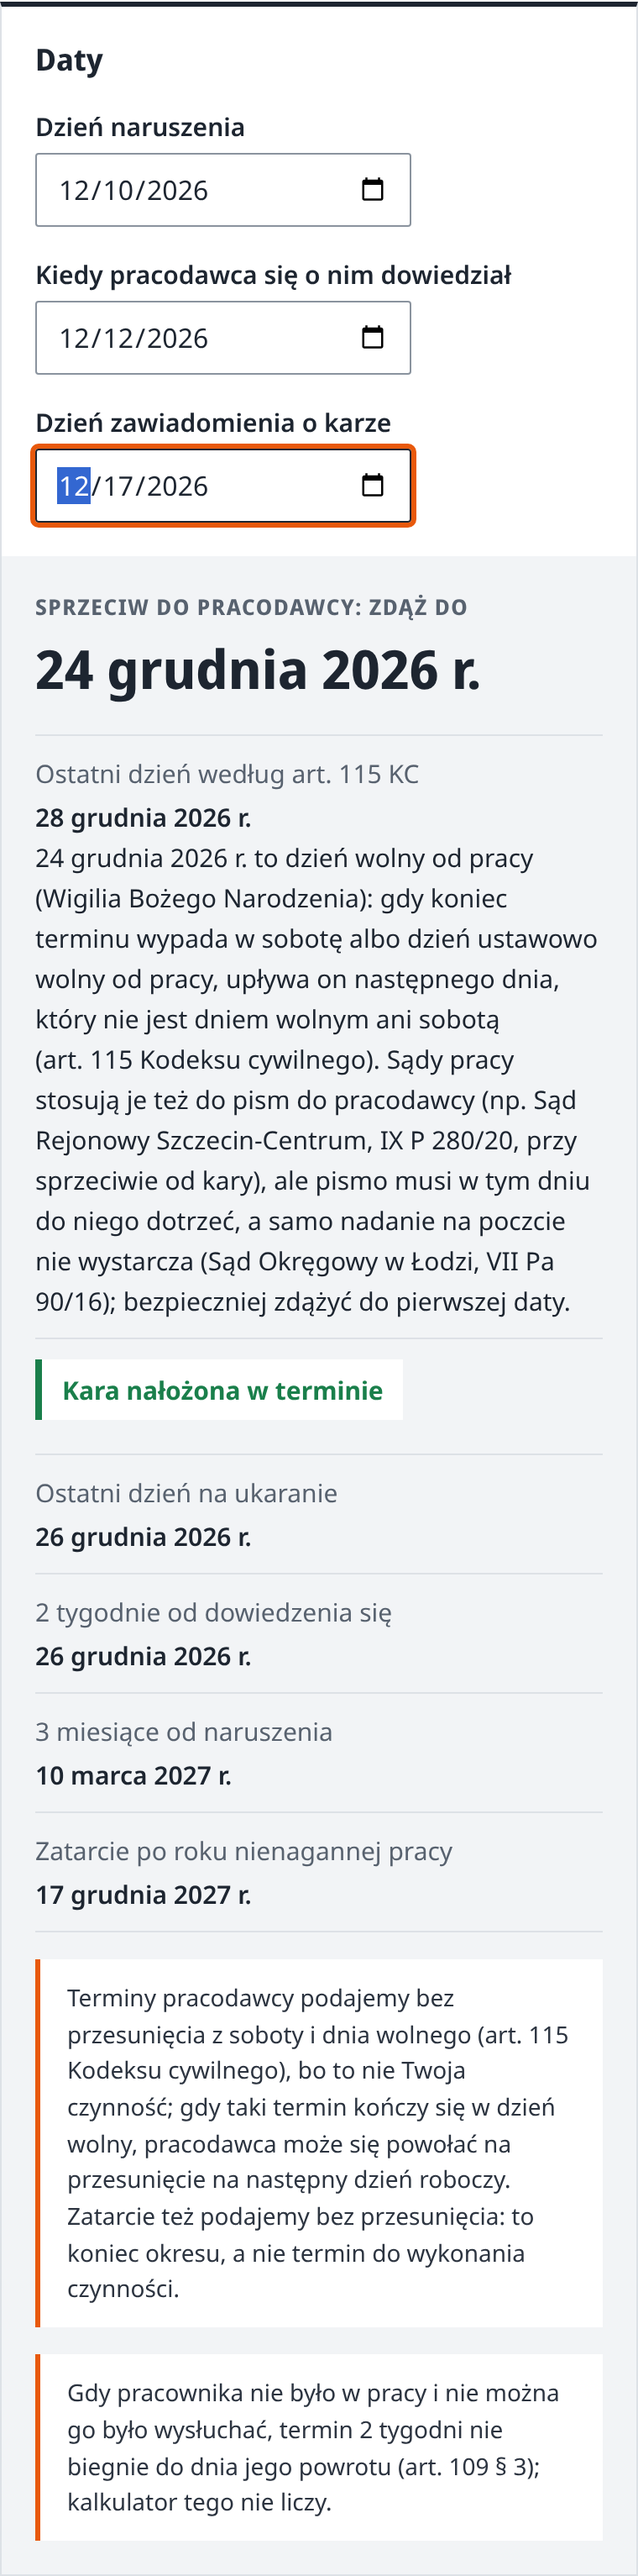
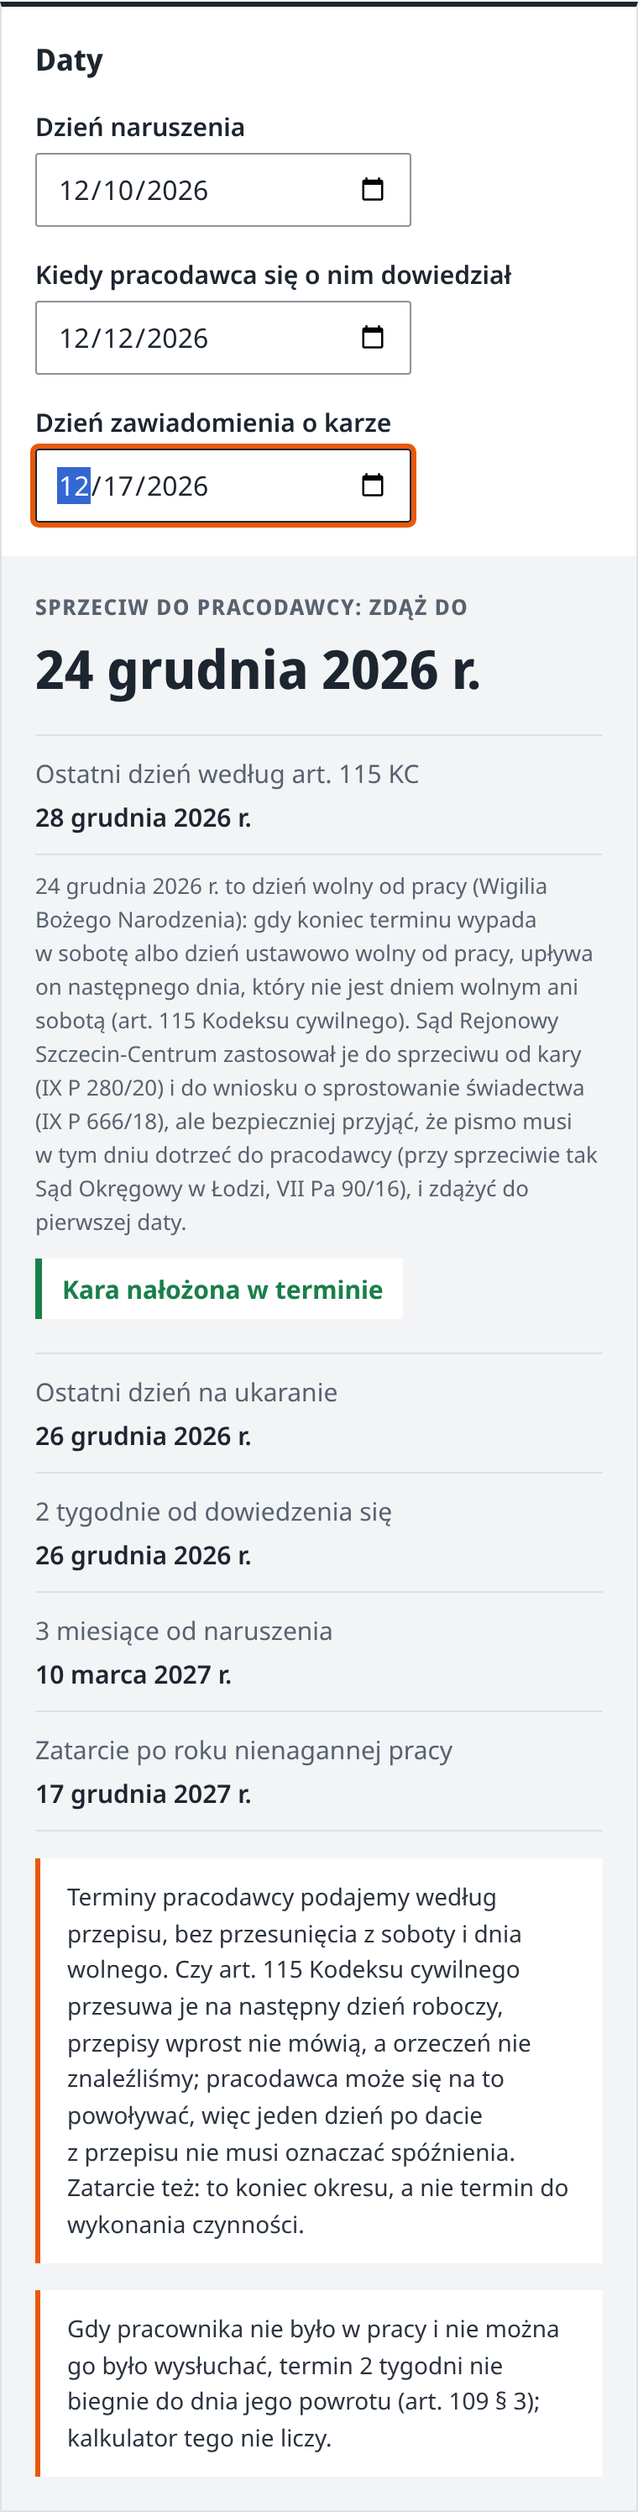
Pakiet terminy: jedna konwencja art. 115 KC w sześciu narzędziach, audyt świadectwa pracy; pełny check zielony
Claude-Session: https://claude.ai/code/session_015dQkzgtKjeL9rnLBTCRrJg

Changed region(s): [[0.0303, 0.0, 0.9382, 0.9953]]

diff --git a/raporty/terminy/RAPORT.md b/raporty/terminy/RAPORT.md
@@ -24,7 +24,7 @@ i weryfikator kodu/UX (niezależnie, pliki i teksty przepisów, bez wniosków bu
     30 września (art. 168) bez przesunięcia jako data z przepisu dla pracodawcy.
   - `informacja-o-warunkach-zatrudnienia`: same obowiązki pracodawcy, więc bez przesunięcia (usunięta data przesunięta),
     jedno zdanie dlaczego.
-- „Jak liczymy”, FAQ, testy jednostkowe (1801 w całym repozytorium) i E2E zaktualizowane; zrzuty 412/320 px:
+- „Jak liczymy”, FAQ, testy jednostkowe i E2E zaktualizowane; zrzuty 412/320 px:
   `raporty/terminy/zrzuty/` (skrypt `zrzuty.mjs`, stan z dwiema datami, 0 px przewijania w bok, nic nieucięte).
 
 ## Przepisy i orzeczenia (szczegóły i cytaty: `PRZEPISY.md`)
@@ -65,7 +65,9 @@ i weryfikator kodu/UX (niezależnie, pliki i teksty przepisów, bez wniosków bu
   bez drugiego podagenta.
 
 ## Wynik checku
-`npm run -s check:szybki` EXIT 0, `BEZ_WEBKIT=1 npm run check` EXIT 0 (szczegóły w ostatniej wiadomości do orkiestratora).
+`npm run -s check:szybki` EXIT 0 (unit 2088 w 136 plikach), `BEZ_WEBKIT=1 npm run check` EXIT 0 (E2E 2333 zaliczonych,
+343 pominiętych z założenia, 8,6 min; Lighthouse i kontrola SEO produkcji przed startem bez błędów). Zrzuty 412 i 320 px
+odświeżone po poprawkach: 0 px przewijania w bok na wszystkich sześciu stronach.
 
 ## Czego nie sprawdzono / poza zakresem
 - SN: III CZP 21/23 (pełna teza, zakres), III CZP 8/03, III CSK 409/06, orzeczenie SN o art. 115 przy art. 264
